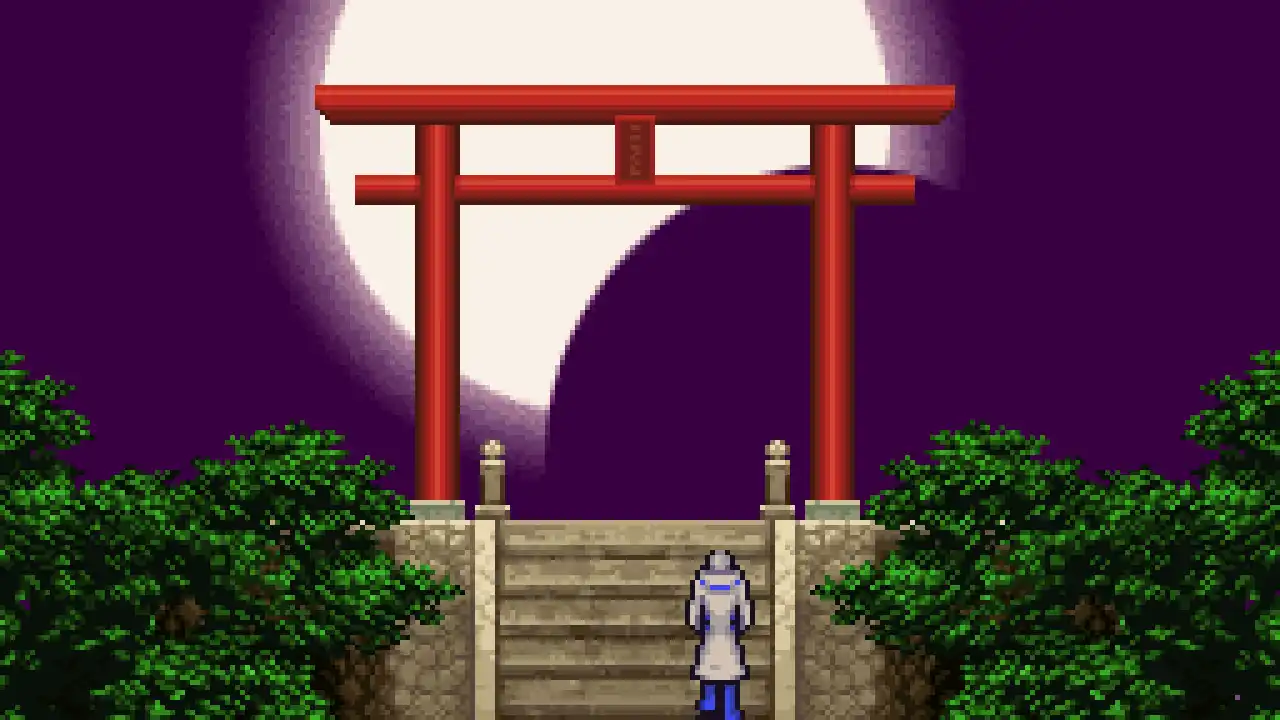
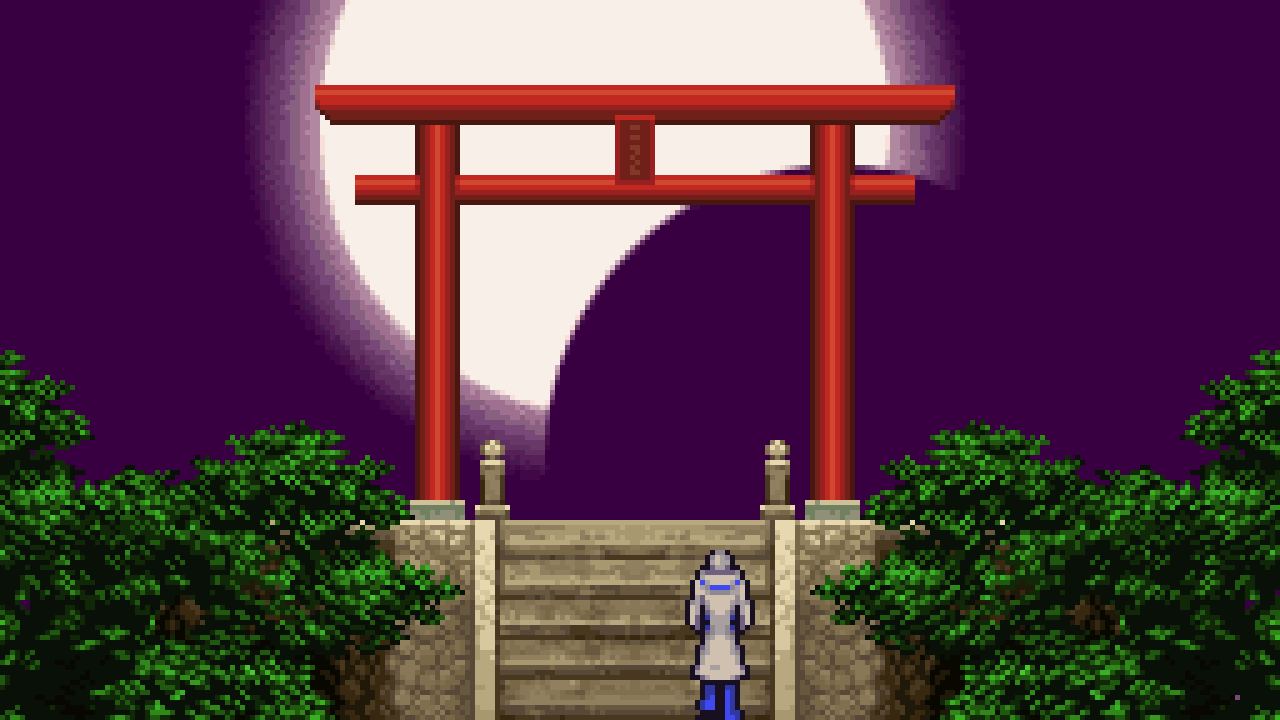
aos 2p image fallbacks etc

diff --git a/public/cvaos/two.css b/public/cvaos/two.css
@@ -26,7 +26,7 @@
     --backgroundColor1: #000;
     --backgroundColor2: #005;
 
-    --border: 6px;
+    --border: 3px;
 
     --clipX1: calc(var(--videoX) + var(--border));
     --clipX2: calc(var(--videoX) + var(--vidWidth) - var(--border));
@@ -37,6 +37,7 @@
 .border-1{
     border: 10px solid #b1b1b1;
     border-image: url(images/border-player-1.png) 10;
+    image-rendering: pixelated;
 }
 
 .border-2{
@@ -63,35 +64,27 @@
 }
 
 .layout.transparent-background{
-    /* -webkit-mask-image:
-        linear-gradient(to right, red var(--clipX1), #0000 0 var(--clipX2),red 0 calc(1280px - var(--clipX2)),#0000 0 calc(1280px - var(--clipX1)),red 0 100%),
-        linear-gradient(red var(--clipY1), #0000 0 var(--clipY2), red 0 100%); */
     --solid: linear-gradient(#000, #000);
-    /* -webkit-mask: var(--solid),
-        var(--solid) var(--clipX1) var(--clipY1),
-        var(--solid) calc(1280px - var(--clipX2)) var(--clipY1);
-    -webkit-mask-size:
-        100% 100%,
-        calc(var(--vidWidth) - 2 * var(--border)) calc(var(--vidHeight) - 2 * var(--border)),
-        calc(var(--vidWidth) - 2 * var(--border)) calc(var(--vidHeight) - 2 * var(--border)); */
-    -webkit-mask: var(--solid),
-        repeating-linear-gradient(
-            to right,
-             #000 0 calc( var(--vidWidth) - var(--border) * 2),
-              #0000 calc( var(--vidWidth) - var(--border) * 2) calc(1280px - var(--clipX2) - 1.5 * var(--border))
-              ) 
-              var(--clipX1) var(--clipY1) /
-               calc(1280px - 2 * var(--clipX1)) calc( var(--vidHeight) - 2 * var(--border)) ;
+    --vidWidth-contentBox: calc(var(--vidWidth) - 2 * var(--border));
+    --vidHeight-contentBox: calc(var(--vidHeight) - 2 * var(--border));
+    -webkit-mask:
+        var(--solid) 0 0 / 100% 100%,
+        var(--solid) var(--clipX1) var(--clipY1) / var(--vidWidth-contentBox) var(--vidHeight-contentBox),
+        var(--solid) calc(1280px - var(--clipX2)) var(--clipY1) / var(--vidWidth-contentBox) var(--vidHeight-contentBox);
     -webkit-mask-repeat: no-repeat;
     -webkit-mask-composite: xor;
     mask-composite: exclude;
 }
 
 .cotm-default{
-    background-color: #000;
+    background-color: #001868;
+    background-image: url("images/bg-page.png");
+    background-image: image-set(
+        url("images/bg-page.avif") type("image/avif"),
+        url("images/bg-page.webp") type("image/webp"),
+        url("images/bg-page.png") type("image/png")
+    );
 }
-.notwebp .cotm-default{background-image: url(images/bg-page.png);}
-.webp .cotm-default{background-image: url(images/bg-page.webp);}
 
 .player-video{
     width: var(--vidWidth);
@@ -126,7 +119,7 @@
 
 .player-name{
     font-size: 26px;
-	text-shadow: 0 0 5px #000000;
+	text-shadow: 0 0 5px #000;
     width: calc(var(--nameWidth) + 8px * 2);
 	color: #fff;
     display: flex;

diff --git a/public/shared/global-2p.css b/public/shared/global-2p.css
@@ -20,15 +20,13 @@
 [player="2"] .player-best-of {right: var(--bestX); top: var(--bestY);}
 
 .layout.transparent-background{
-    --clipX1: calc(var(--videoX) + var(--border));
-    --clipX2: calc(var(--videoX) + var(--vidWidth) - var(--border));
-    --clipY1: calc(var(--videoY) + var(--border));
-    --clipY2: calc(var(--videoY) + var(--vidHeight) - var(--border));
-    --solid: linear-gradient(#000,#000);
-    --borderX2: var(--border) * 2;
-    -webkit-mask: var(--solid), repeating-linear-gradient(to right, #000 0 calc(var(--vidWidth) - var(--borderX2)), #0000 calc(var(--vidWidth) - var(--borderX2)) calc(1280px - var(--clipX2) - var(--border)));
-    -webkit-mask-position: 0 0, var(--clipX1) var(--clipY1);
-    -webkit-mask-size: 100% 100%, calc(1280px - 2 * var(--clipX1)) calc(var(--vidHeight) - var(--borderX2));
+    --solid: linear-gradient(#000, #000);
+    --vidWidth-contentBox: calc(var(--vidWidth) - 2 * var(--border));
+    --vidHeight-contentBox: calc(var(--vidHeight) - 2 * var(--border));
+    -webkit-mask:
+        var(--solid) 0 0 / 100% 100%,
+        var(--solid) var(--clipX1) var(--clipY1) / var(--vidWidth-contentBox) var(--vidHeight-contentBox),
+        var(--solid) calc(1280px - var(--clipX2)) var(--clipY1) / var(--vidWidth-contentBox) var(--vidHeight-contentBox);
     -webkit-mask-repeat: no-repeat;
     -webkit-mask-composite: xor;
     mask-composite: exclude;

diff --git a/public/cvaos/two-loading-template.html b/public/cvaos/two-loading-template.html
@@ -36,15 +36,18 @@
   }
 
 .loadscreen{
-    background-color: #8dc8ff;
-  --loadscreen-fallback: linear-gradient(#8dc8ff 617px, #5877f7 617px 618px);
-    background-image: var(--loadscreen-fallback);
     height: 100%;
     display: grid;
     grid-auto-rows: 1fr auto;
     grid-gap: 1em;
     place-items: center;
     padding: 1em;
+    background-color: #380040;
+    background-image: url("images/loading_screen.png");
+    background-image: image-set(
+        url("images/loading_screen.webp") type("image/webp"),
+        url("images/loading_screen.png") type("image/png")
+    );
 }
 
 .notwebp .loadscreen{background-image: url('images/loading_screen.png'), var(--loadscreen-fallback);}
@@ -63,10 +66,14 @@
     justify-content: center;
     min-width: 479px;
     height: 309px;
+    border: 2px solid #0000;
+    border-image: url("images/loading_screen_border.png") 10 / 40px;
+    border-image-source: image-set(
+        url("images/loading_screen_border.webp") type("image/webp"),
+        url("images/loading_screen_border.png") type("image/png")
+        );
+    image-rendering: pixelated;
 }
-
-.notwebp .loadscreen-main{border-image: url('images/loading_screen_border.png') 10 10;}
-.webp .loadscreen-main{border-image: url('images/loading_screen_border.webp')  10 10;}
 
 .loadscreen-main *{
     justify-content: center;

diff --git a/public/shared/calendar-template.html b/public/shared/calendar-template.html
@@ -6,22 +6,14 @@
     z-index: 50;
     display: none;
     padding: 40px;
-    background-color: #000;
-    --calendar-fallback: linear-gradient(#000 0 33.3%, #111 0 66.6%, #010 0 100%), 
-    linear-gradient(90deg, #000 0 16.6%, #210308 0 33.3%, #232607 0 50%, #000 0 66.6%, #2e271f 0 83.3%, #212e10 0 100%);
-    background-image: var(--calendar-fallback);
     background-size: 50% 50%;
-    background-blend-mode: screen;
+    background-color: #000;
+    background-image: url("../shared/images/rm-generic-half.png");
+    background-image: image-set(
+        url("../shared/images/rm-generic-half.avif") type("image/avif"),
+        url("../shared/images/rm-generic-half.png") type("image/png")
+    );
 }
-
-.notavif .calendar-contain{
-  background-image: url(../shared/images/rm-generic-half.png), var(--calendar-fallback);
-  background-blend-mode: normal, screen;
-}
-.avif .calendar-contain{
-  background-image: url(../shared/images/rm-generic-half.avif), var(--calendar-fallback);
-  background-blend-mode: normal, screen;}
-
 
 .calendar{
     height: 100%;

diff --git a/public/cvaos/two.html b/public/cvaos/two.html
@@ -9,7 +9,6 @@
     <link rel="stylesheet" type="text/css" href="../shared/production.css">
     <link rel="stylesheet" type="text/css" href="../shared/menu.css">
     <link rel="stylesheet" type="text/css" href="two.css">
-    <link rel="preload" href="images/bg-page.webp" as="image" type="image/webp">
     <link rel="preload" href="images/tracker-icons.png" as="image" type="image/png">
     <style>
         [player="1"] .player-video {left: var(--videoX); top: var(--videoY);}
@@ -119,7 +118,6 @@
 	
     <tr-template href="../shared/two-menus-contain.html"></tr-template>
 
-    <script src="../shared/script/imgsupport.js"></script>
 	<script defer src="/__/firebase/8.3.0/firebase-app.js"></script>
     <script defer src="/__/firebase/8.3.0/firebase-auth.js"></script>
     <script defer src="/__/firebase/8.3.0/firebase-database.js"></script>

diff --git a/public/cvcotm/two-loading-template.html b/public/cvcotm/two-loading-template.html
@@ -57,12 +57,12 @@
     background-color: #000;
     background-clip: content-box;
     border: 4px solid #0000;
-    border-image-source: url("images/border-loading.png");
+    border-image: url("images/border-loading.png") round 4;
     border-image-source: image-set(
         url("images/border-loading.webp") type("image/webp"),
         url("images/border-loading.png") type("image/png")
         );
-    border-image-slice: 4;
+    image-rendering: pixelated;
     display: grid;
     align-items: center;
     justify-content: center;

diff --git a/public/shared/calendar.html b/public/shared/calendar.html
@@ -22,7 +22,6 @@
     
     <tr-template href="../shared/four-menus-contain.html"></tr-template>
 
-    <script src="../shared/script/imgsupport.js"></script>
 	<script defer src="/__/firebase/8.3.0/firebase-app.js"></script>
     <script defer src="/__/firebase/8.3.0/firebase-auth.js"></script>
     <script defer src="/__/firebase/8.3.0/firebase-database.js"></script>

diff --git a/public/cvaos/two_loading.html b/public/cvaos/two_loading.html
@@ -21,7 +21,6 @@
     
     <tr-template href="../shared/two-menus-contain.html"></tr-template>
 
-    <script src="../shared/script/imgsupport.js"></script>
 	<script defer src="/__/firebase/8.3.0/firebase-app.js"></script>
     <script defer src="/__/firebase/8.3.0/firebase-auth.js"></script>
     <script defer src="/__/firebase/8.3.0/firebase-database.js"></script>

diff --git a/public/index.html b/public/index.html
@@ -52,7 +52,7 @@
 
 <div data-console="gba">
 	<h3>Castlevania: Aria of Sorrow</h3>
-	<a onclick="goToRoom('castlevaniaAoS/two.html')">2 Player</a>
+	<a onclick="goToRoom('cvaos/two.html')">2 Player</a>
 </div>
 
 <!-- Castlevania: Circle of the Moon -->
